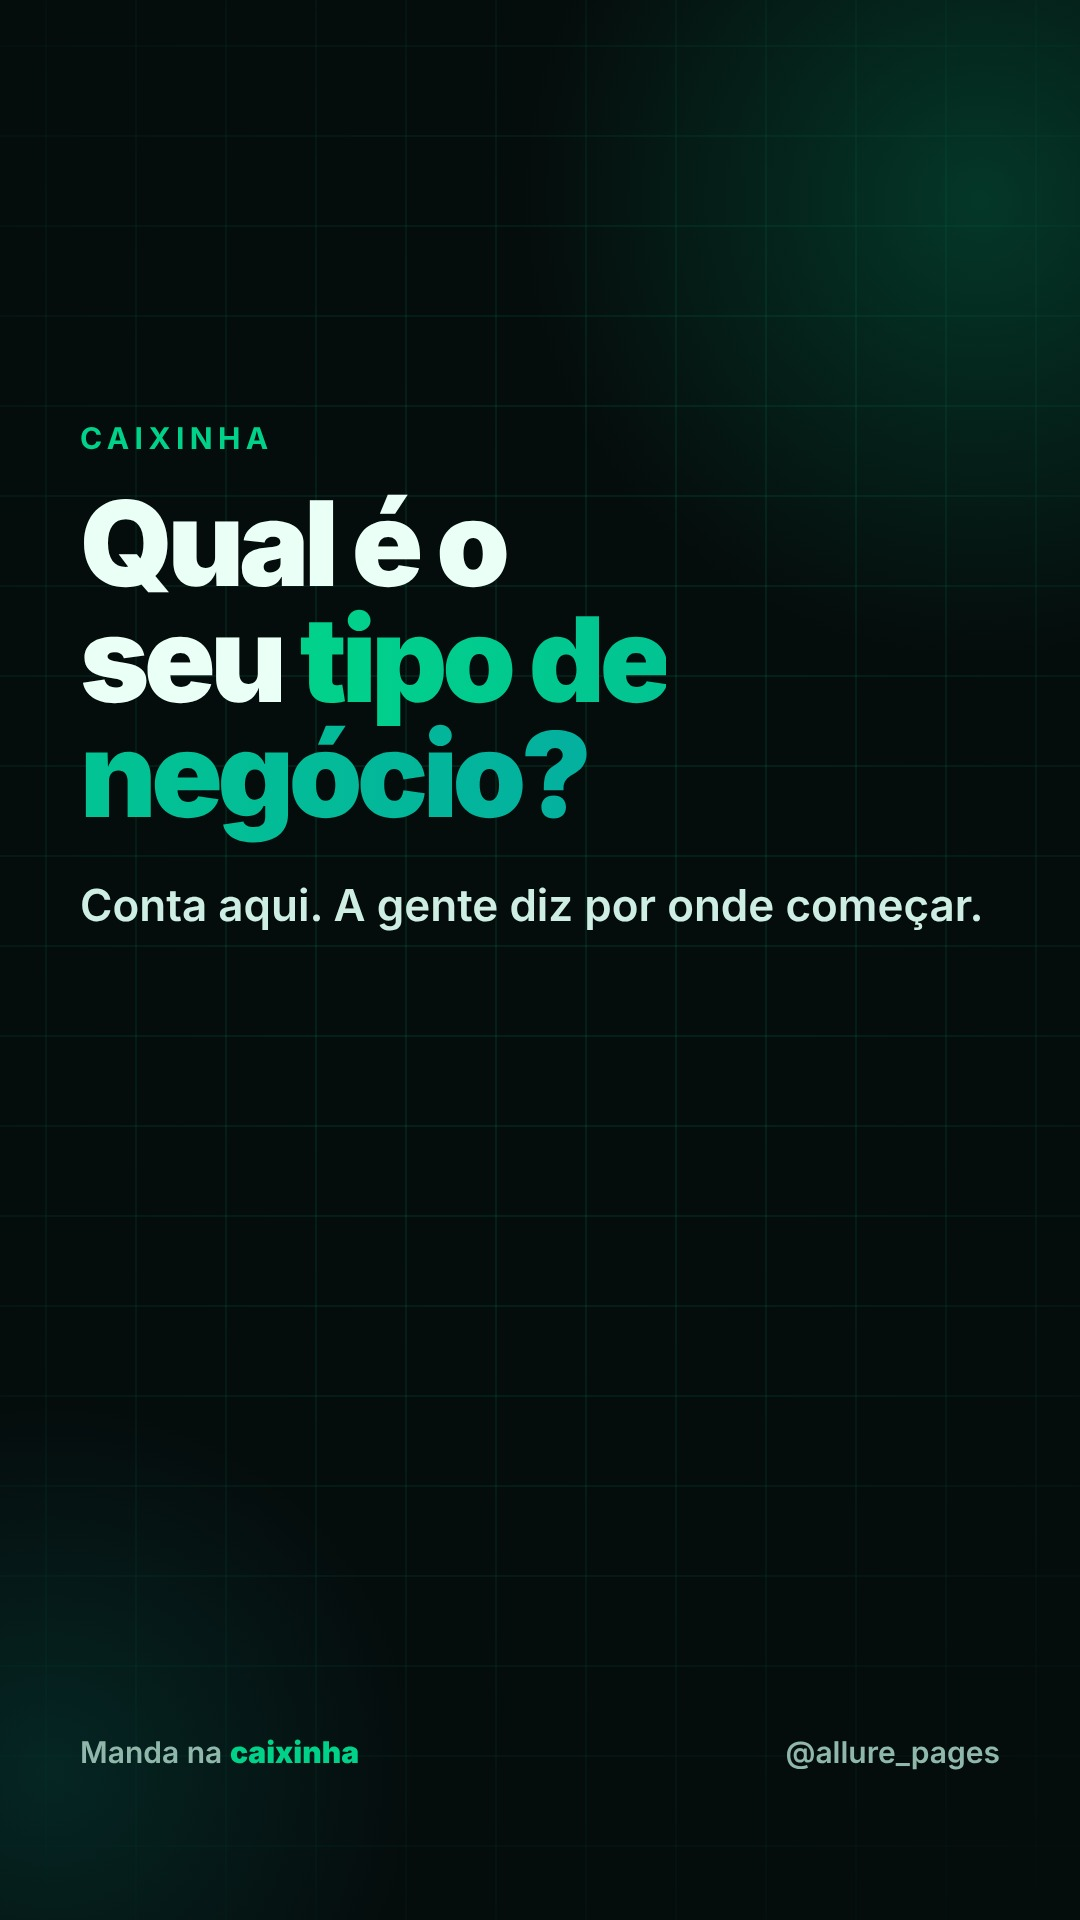
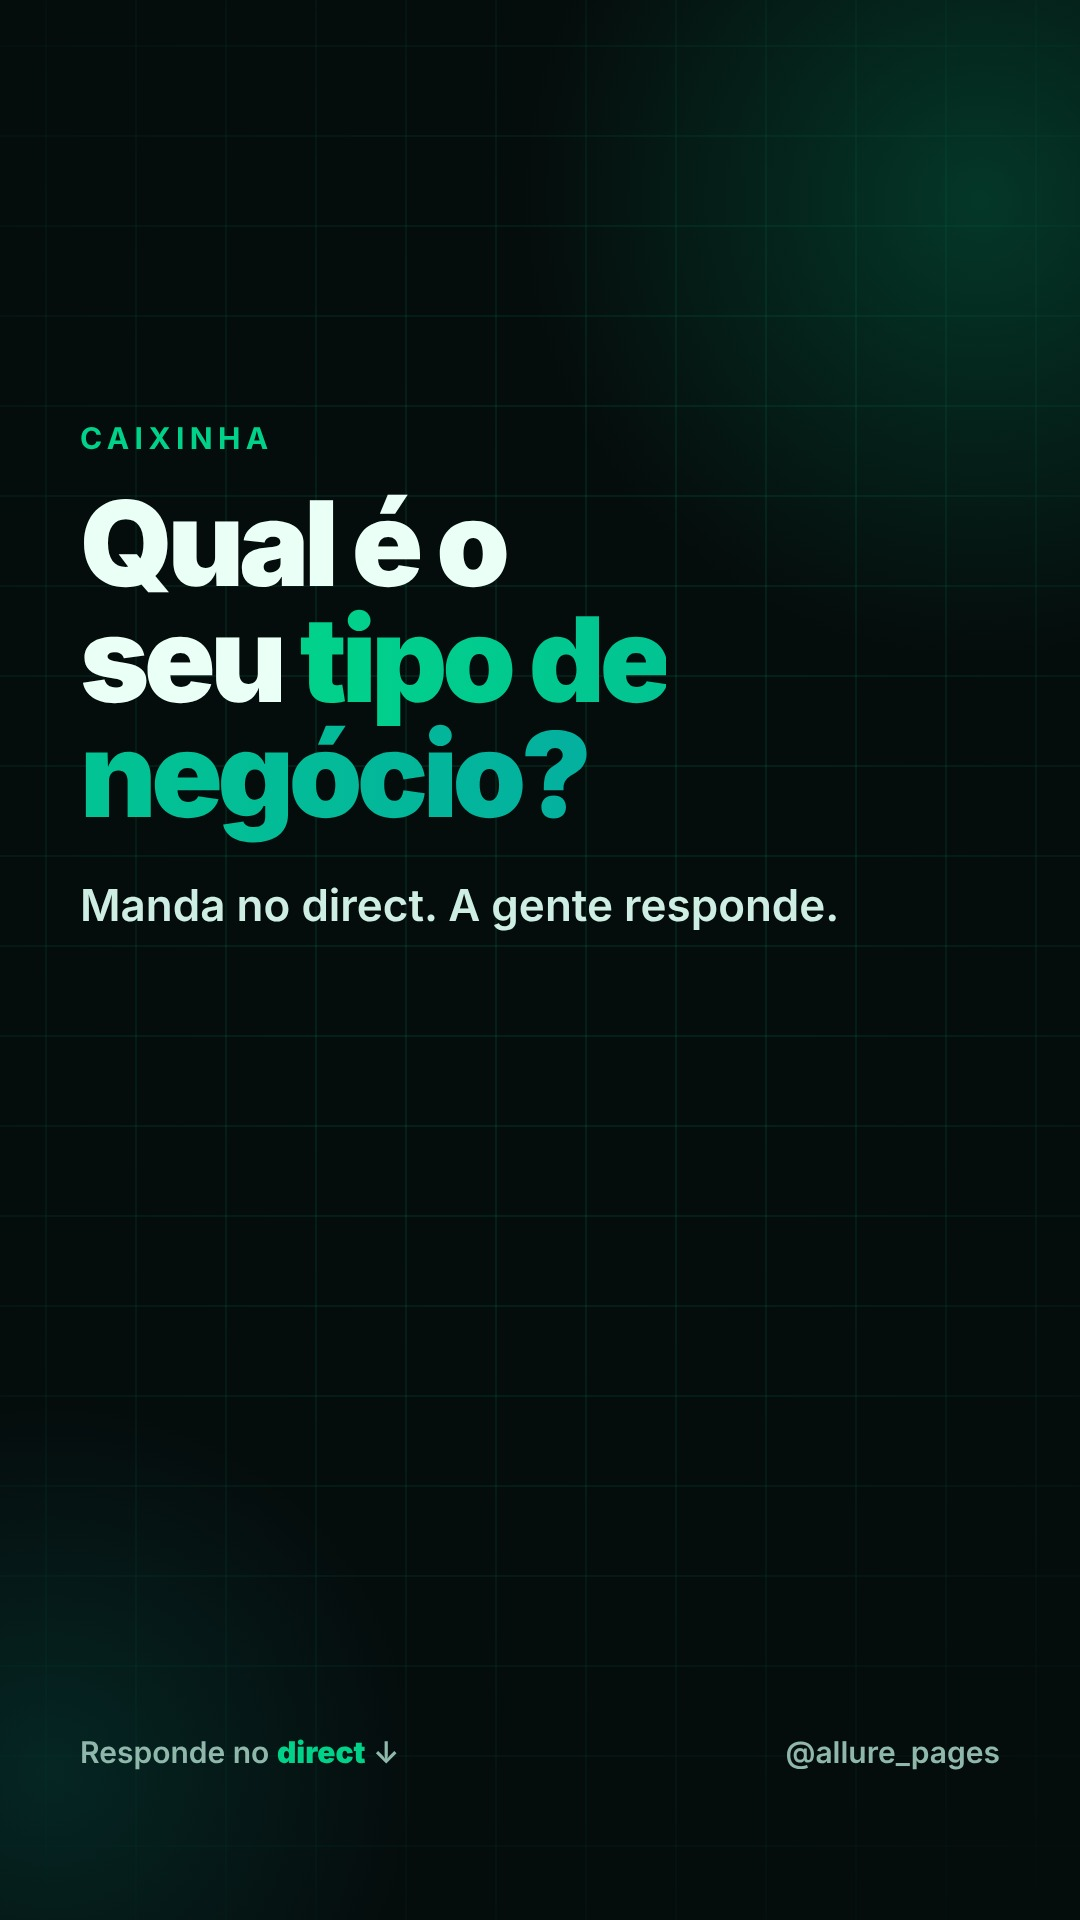
Stories pedem resposta no direct

Changed region(s): [[0.0611, 0.4375, 0.9167, 0.5], [0.0917, 0.9062, 0.3361, 0.9375]]

diff --git a/ig/templates/gen.py b/ig/templates/gen.py
@@ -18,20 +18,20 @@ P=[
 for a in P: post(*a)
 pill='<div class=pill>Link na bio</div>'
 S=[ # enquetes manha, meio, noite for days 2..7
-('s04','Enquete','Você aparece<br>no <span class=g>Google</span><br>quando buscam<br>seu serviço?','Vota aí embaixo. A gente conta o resultado.','Responde no <b>sticker</b>',''),
-('s05','Caixinha','Qual é o<br>seu <span class=g>tipo de<br>negócio?</span>','Conta aqui. A gente diz por onde começar.','Manda na <b>caixinha</b>',''),
+('s04','Enquete','Você aparece<br>no <span class=g>Google</span><br>quando buscam<br>seu serviço?','Manda <b>SIM</b> ou <b>NÃO</b> no direct.','Responde no <b>direct</b> ↓',''),
+('s05','Caixinha','Qual é o<br>seu <span class=g>tipo de<br>negócio?</span>','Manda no direct. A gente responde.','Responde no <b>direct</b> ↓',''),
 ('s06','Fala com a gente','Tecnologia e<br>marketing<br><span class=g>num lugar só.</span>','Site, sistema, logo, tráfego e redes sociais.','Acesse o <b>link na bio</b>',pill),
-('s07','Enquete','Seu cliente<br>fala mais no<br><span class=g>Instagram</span><br>ou WhatsApp?','Vota aí embaixo.','Responde no <b>sticker</b>',''),
-('s08','Caixinha','O que mais<br><span class=g>toma seu<br>tempo</span> no dia<br>a dia?','Responde aqui. A gente lê tudo.','Manda na <b>caixinha</b>',''),
+('s07','Enquete','Seu cliente<br>fala mais no<br><span class=g>Instagram</span><br>ou WhatsApp?','Manda a resposta no direct.','Responde no <b>direct</b> ↓',''),
+('s08','Caixinha','O que mais<br><span class=g>toma seu<br>tempo</span> no dia<br>a dia?','Manda no direct. A gente lê tudo.','Responde no <b>direct</b> ↓',''),
 ('s09','Fala com a gente','Do site ao<br><span class=g>tráfego pago:</span><br>a gente cuida.','Você cuida do seu negócio.','Acesse o <b>link na bio</b>',pill),
-('s10','Enquete','Você já perdeu<br>cliente por<br><span class=g>demorar</span><br>a responder?','Vota aí embaixo.','Responde no <b>sticker</b>',''),
-('s11','Caixinha','Qual pergunta<br>seus clientes<br><span class=g>sempre fazem?</span>','Manda aqui. Vira conteúdo.','Manda na <b>caixinha</b>',''),
+('s10','Enquete','Você já perdeu<br>cliente por<br><span class=g>demorar</span><br>a responder?','Manda a resposta no direct.','Responde no <b>direct</b> ↓',''),
+('s11','Caixinha','Qual pergunta<br>seus clientes<br><span class=g>sempre fazem?</span>','Manda no direct. Pode virar conteúdo.','Responde no <b>direct</b> ↓',''),
 ('s12','Fala com a gente','Seu negócio no<br><span class=g>topo do Google</span><br>começa aqui.','Chama a gente e conta sua dor.','Acesse o <b>link na bio</b>',pill),
-('s13','Enquete','Sua logo é<br><span class=g>profissional?</span>','Vota aí embaixo.','Responde no <b>sticker</b>',''),
-('s14','Caixinha','Se pudesse<br><span class=g>automatizar<br>uma coisa,</span><br>qual seria?','Responde aqui embaixo.','Manda na <b>caixinha</b>',''),
+('s13','Enquete','Sua logo é<br><span class=g>profissional?</span>','Manda a resposta no direct.','Responde no <b>direct</b> ↓',''),
+('s14','Caixinha','Se pudesse<br><span class=g>automatizar<br>uma coisa,</span><br>qual seria?','Manda no direct.','Responde no <b>direct</b> ↓',''),
 ('s15','Fala com a gente','Logo, site<br>e redes:<br><span class=g>tudo com a<br>Allure.</span>','Um só parceiro para o seu negócio crescer.','Acesse o <b>link na bio</b>',pill),
-('s16','Enquete','Você investe<br>em <span class=g>anúncios</span><br>hoje?','Vota aí embaixo.','Responde no <b>sticker</b>',''),
-('s17','Caixinha','O que te<br>impede de<br><span class=g>ter um site?</span>','Responde aqui. Sem julgamento.','Manda na <b>caixinha</b>',''),
+('s16','Enquete','Você investe<br>em <span class=g>anúncios</span><br>hoje?','Manda a resposta no direct.','Responde no <b>direct</b> ↓',''),
+('s17','Caixinha','O que te<br>impede de<br><span class=g>ter um site?</span>','Manda no direct. Sem julgamento.','Responde no <b>direct</b> ↓',''),
 ('s18','Fala com a gente','Pronto pra<br><span class=g>aparecer?</span>','A gente cuida da parte técnica.','Acesse o <b>link na bio</b>',pill),
 ]
 for a in S: story(*a)
